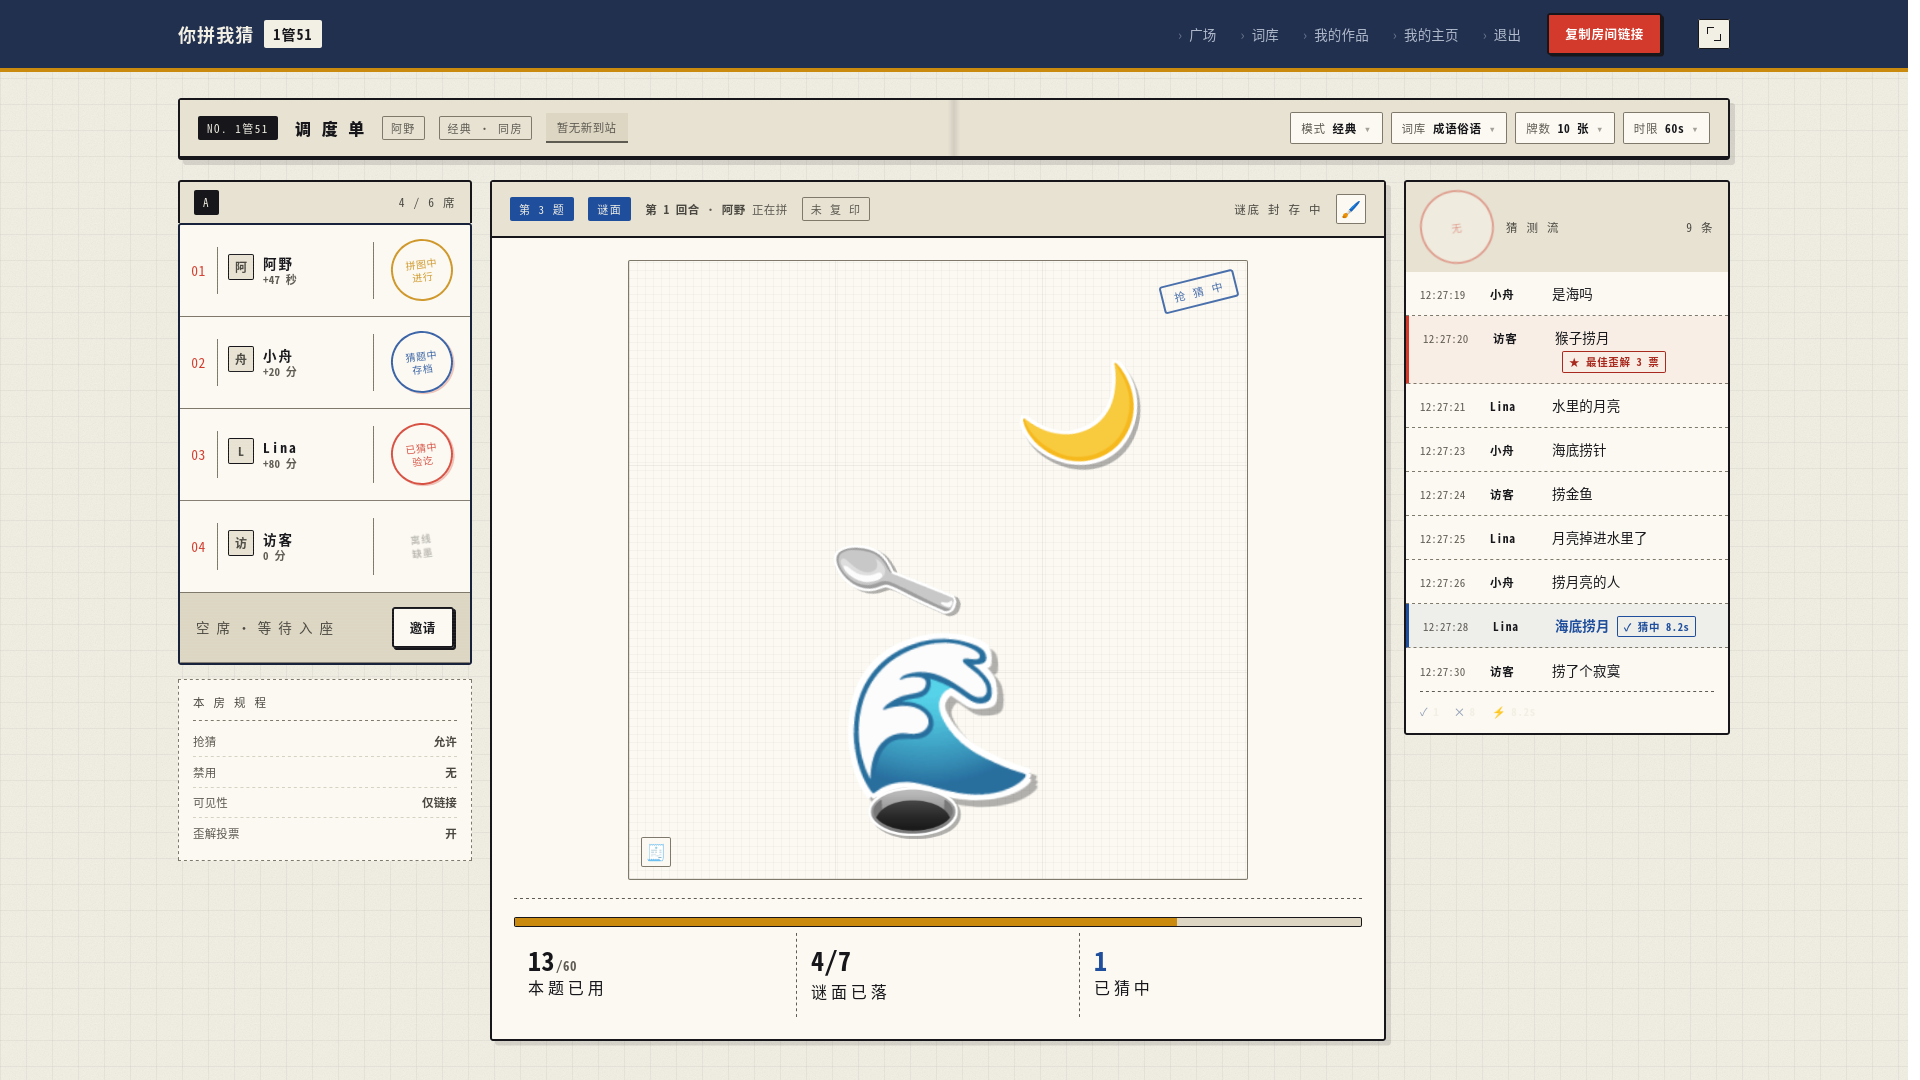
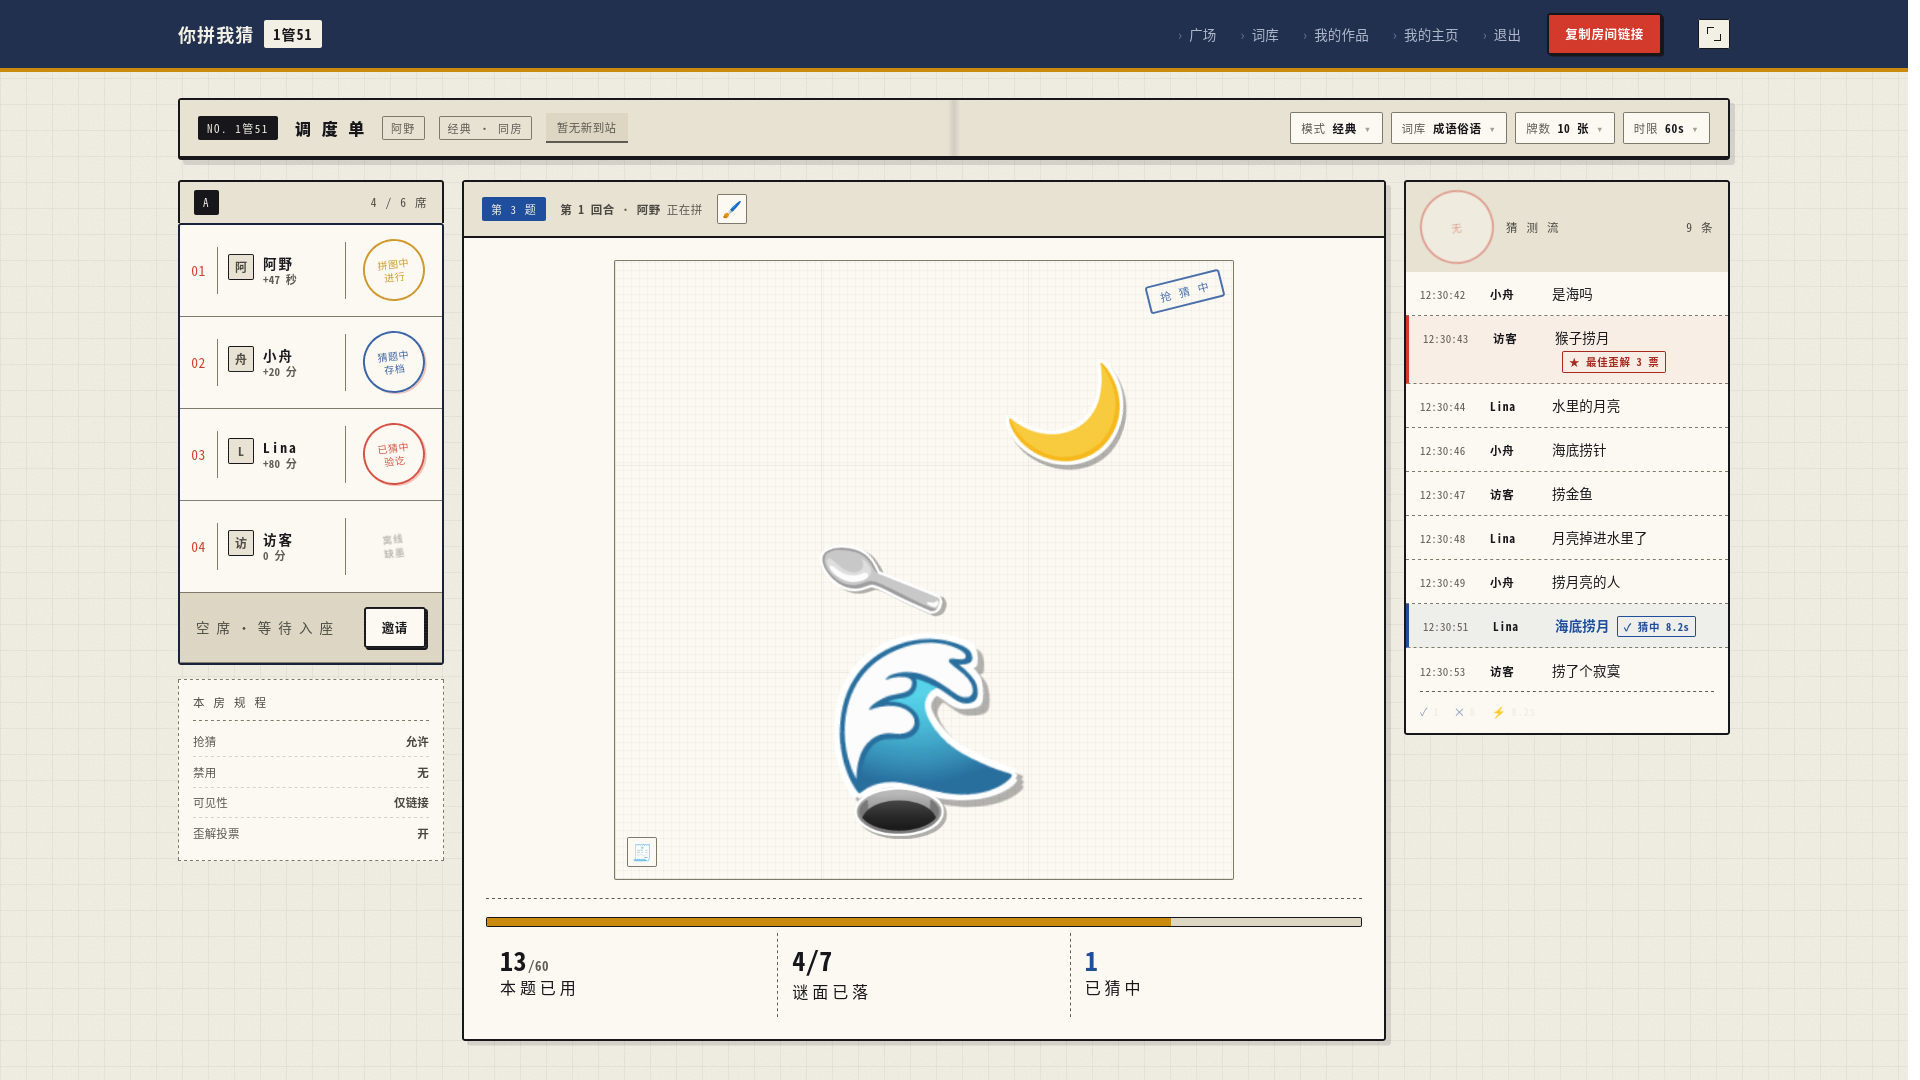
房间：副容器的状态字删掉；玩家列表游戏中收起、结算时展开
用户两条：
  「画布的副容器中谜面未复印，谜底封存中这些其实可以删了，把更重要的信息发给你，
    就像我之前讲的回合数」
  「玩家列表其实并不重要，在游戏结束之后再展示一下就行了，游戏过程中没必要展示」

## ① 中栏副容器只剩要紧的四件事

    第 3 题 │ 第 1 回合 · 阿野 正在拼 │ 🖌

删掉的三样：「谜面」（谁都知道这是谜面）、「未 复 印」（复印是柜台支线，
不是主状态）、「谜底 封 存 中」（谜底封存是默认行为，不写也是封着的）。
`#copyTag` 元素与它的 4 处 JS 引用一并删除。

## ② 玩家列表：游戏中收起，结算时展开

一局是否结束，用现成的信号判定 —— `updateFlowMeta()` 里的
`hits = flowEl.querySelectorAll(".g.hit").length`（猜中数）。

    hits === 0  →  收起玩家列表，网格从三栏变两栏，画布吃掉左栏让出的宽
    hits >  0   →  展开玩家列表（席位表 + 本房规程）

收起/展开都挂在 `updateFlowMeta()` 上，所以它跟着猜测流的状态自动走，
不需要额外的定时器或手动开关。

## 实测两态

    进行中  玩家列表隐藏，画布 660px（两栏）
    结算    玩家列表展开，画布 428px（三栏 266/1fr/326）

## 一次验证方法的错，值得记

第一次我改 HTML 源码里的 `class="g hit"` 想造出「进行中」，
但那份流是 **JS 从数据渲染**的 —— 源码里根本没有那个字符串。
两态渲染出来一模一样，我差点以为逻辑没生效。

改成注入 JS 清掉 `.hit` 再调 `updateFlowMeta()`，两态立刻分开。

**教训**：验证一个由 JS 渲染的状态时，改静态 HTML 是无效的。
这和之前「播种脚本比主脚本先跑」是同一类错误 —— 改动没到运行时。

diff --git a/app/room.html b/app/room.html
@@ -229,6 +229,14 @@ footer.site a[aria-current]{color:var(--amber-lit)}
 .qmeta{font-family:var(--mono);font-size:11.5px;letter-spacing:.04em;color:var(--ink-3)}
 .qmeta b{color:var(--ink-2);font-weight:700}
 .qmeta .sep{margin:0 5px;color:var(--ink-3)}   /* --ink-4 是装饰档，只有 3.77:1 */
+
+/* ── 玩家列表：游戏过程中不展示，一局结束再出来 ──────────────
+   用户：「玩家列表其实并不重要，在游戏结束之后再展示一下就行了，
+   游戏过程中没必要展示。」
+   收起时三栏变两栏（画布 + 猜测流），画布拿到左栏让出的宽。 */
+.grid3 > .col.settle{display:none}
+.grid3.settled{grid-template-columns:266px minmax(0,1fr) 326px}
+.grid3:not(.settled){grid-template-columns:minmax(0,1fr) 326px}
 </style>
 <link rel="manifest" href="manifest.webmanifest">
 <meta name="theme-color" content="#22304F">
@@ -278,7 +286,7 @@ footer.site a[aria-current]{color:var(--amber-lit)}
     <div class="grid3">
 
       <!-- 左 · 玩家调度单（纸）-->
-      <section class="col">
+      <section class="col settle" id="seatsCol">
         <div class="col-hd">
           <span class="tag-no">A</span>
           <span class="lbl r" id="seatCount">4 / 6 席</span>
@@ -300,11 +308,8 @@ footer.site a[aria-current]{color:var(--amber-lit)}
             <!-- 用户：「第几题第几回合以及哪个人在画这些信息
                  都应该放在画布的父亲容器的左上方」 -->
             <span class="tag-no blue" id="qNo">第 3 题</span>
-            <span class="tag-no blue">谜面</span>
             <span class="qmeta"><b id="roundV">第 1 回合</b><span class="sep">·</span><b id="whoV">阿野</b> 正在拼</span>
-            <span class="tag-out" id="copyTag">未 复 印</span>
-            <span class="lbl" style="margin-left:auto">谜底 封 存 中</span>
-            <a class="ibtn" href="compose.html" title="去拼图台出题" aria-label="去拼图台出题">🖌</a>
+                        <a class="ibtn" href="compose.html" title="去拼图台出题" aria-label="去拼图台出题">🖌</a>
           </div>
           <div class="sheet-bd">
 
@@ -426,7 +431,7 @@ const seatsEl=$("seats"),flowEl=$("flow"),cvEl=$("canvas"),
       pieceV=$("pieceV"),elapsedV=$("elapsedV"),qNoEl=$("qNo"),
       flowCount=$("flowCount"),flowSum=$("flowSum"),seatCount=$("seatCount"),
       rhSet=$("rhSet"),modeTag=$("modeTag"),hitV=$("hitV"),
-      flowMark=$("flowMark"),copyTag=$("copyTag"),copyOut=$("copyOut"),stubOut=$("stubOut"),
+copyOut=$("copyOut"),stubOut=$("stubOut"),
       castBar=$("castBar"),castTxt=$("castTxt");
 const pad=n=>String(n).padStart(2,"0");
 const stamp=ms=>{const t=new Date(ms);return pad(t.getHours())+":"+pad(t.getMinutes())+":"+pad(t.getSeconds())};
@@ -522,6 +527,15 @@ function updateFlowMeta(){
     `<span><i class="ico-solo">✕</i> <b>${n-hits}</b></span>`+
     `<span><i class="ico-solo">⚡</i> <b>8.2s</b></span>`;
   if(hitV) hitV.textContent=hits;
+  /* 一局结束（有人猜中）→ 展开玩家列表；游戏中收起。
+     用户：玩家列表游戏过程中没必要展示。 */
+  const grid=document.querySelector(".grid3");
+  const col=document.getElementById("seatsCol");
+  if(grid && col){
+    const over=hits>0;
+    grid.classList.toggle("settled",over);
+    col.classList.toggle("settle",!over);
+  }
 }
 
 /* ---------- 5. 谜面：从抽签筒里一张张抽出来 ---- */
@@ -748,7 +762,6 @@ function stampAt(){
 let printT=0;
 function copySheet(){
   copies++;
-  copyTag.textContent="已 复 印 "+copies+" 份";
   copyOut.innerHTML=`
     <div class="cv-copy copy2" style="margin-top:14px">
       <span class="snap" style="display:block;max-width:400px;margin:0 auto">${
